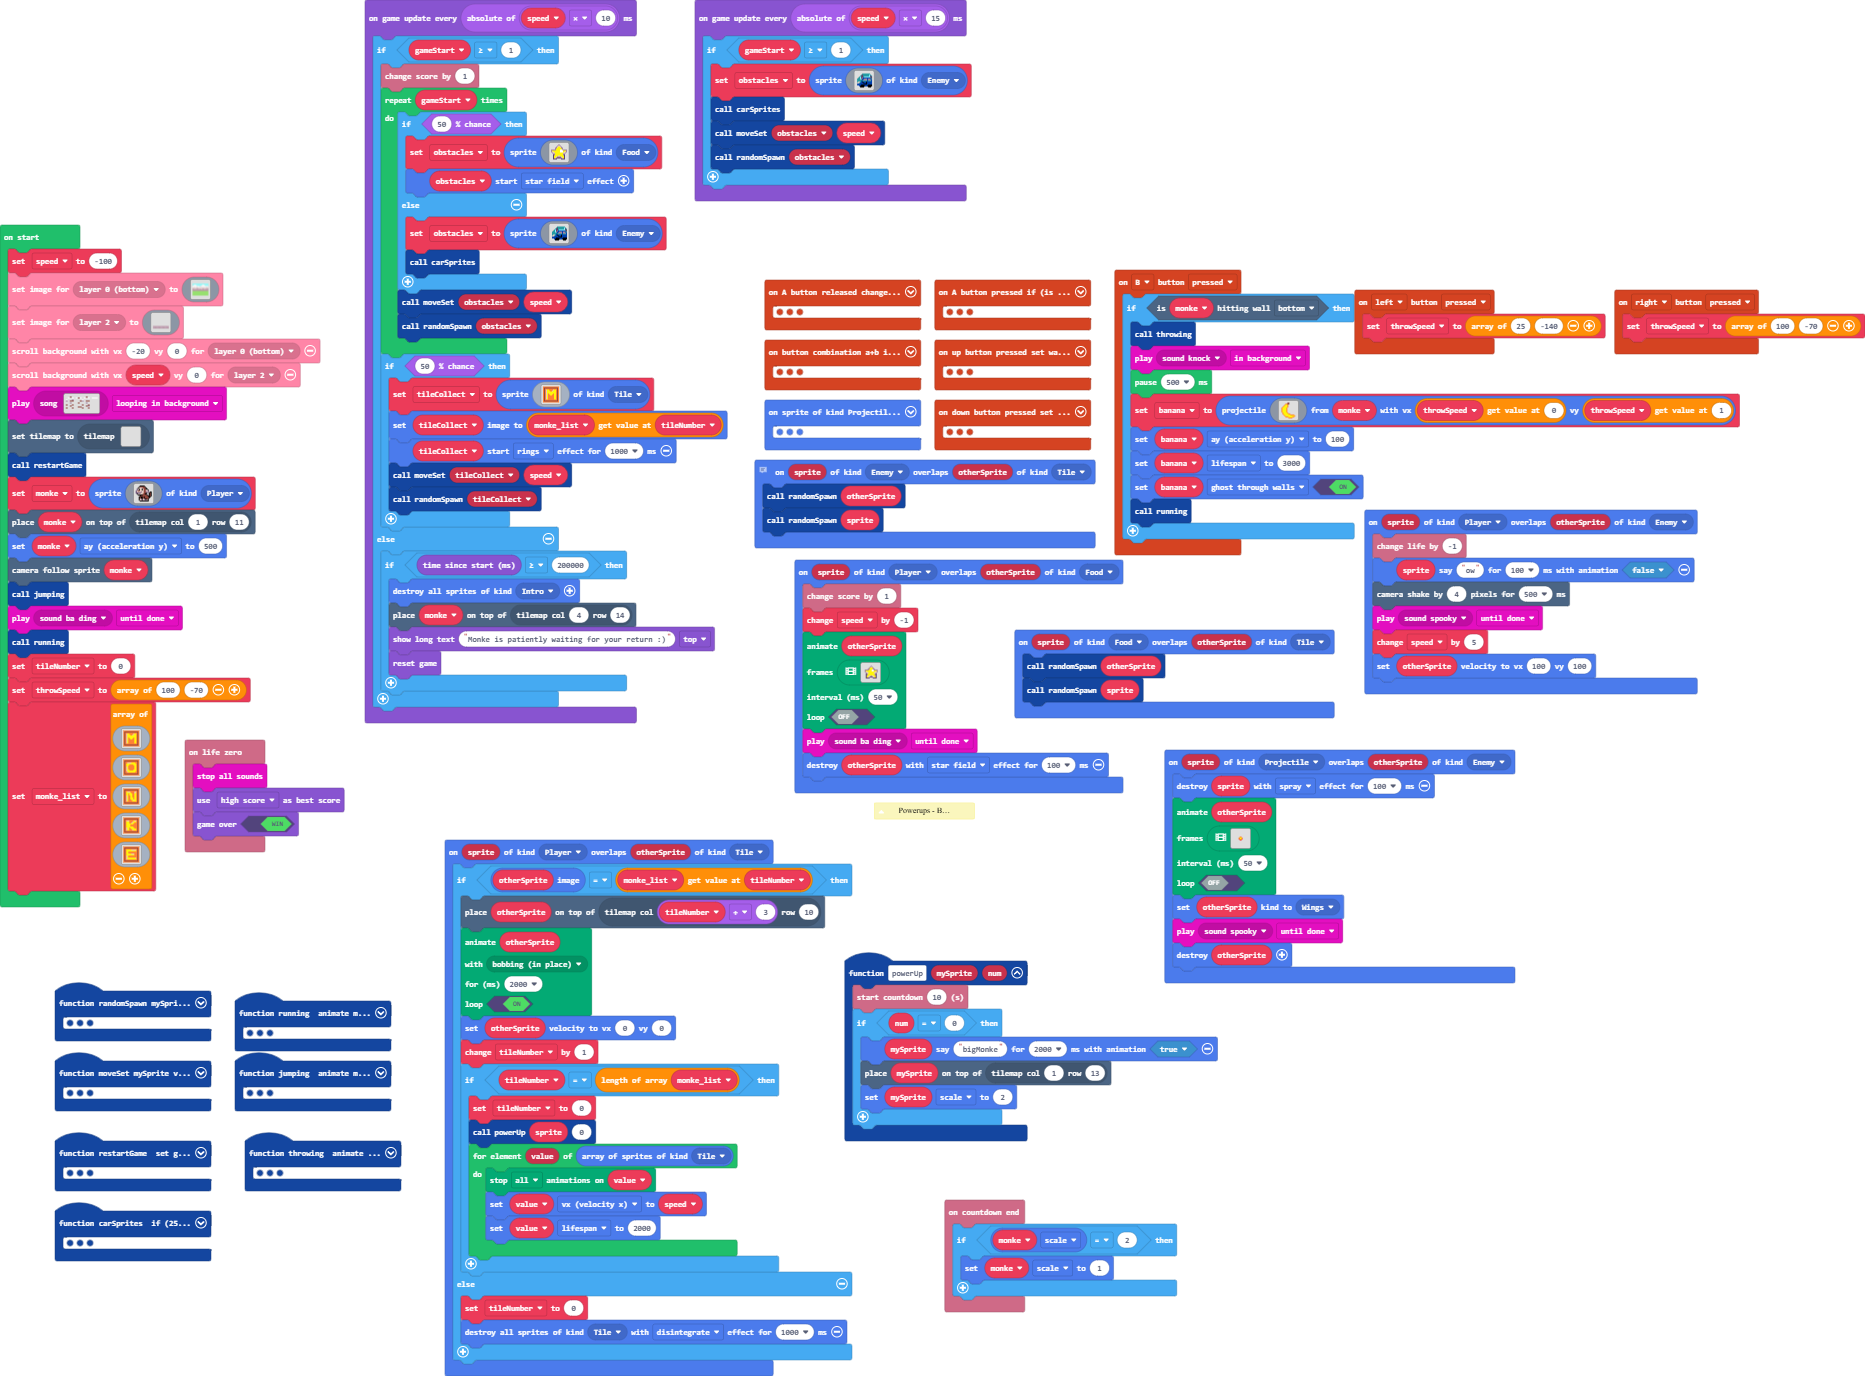
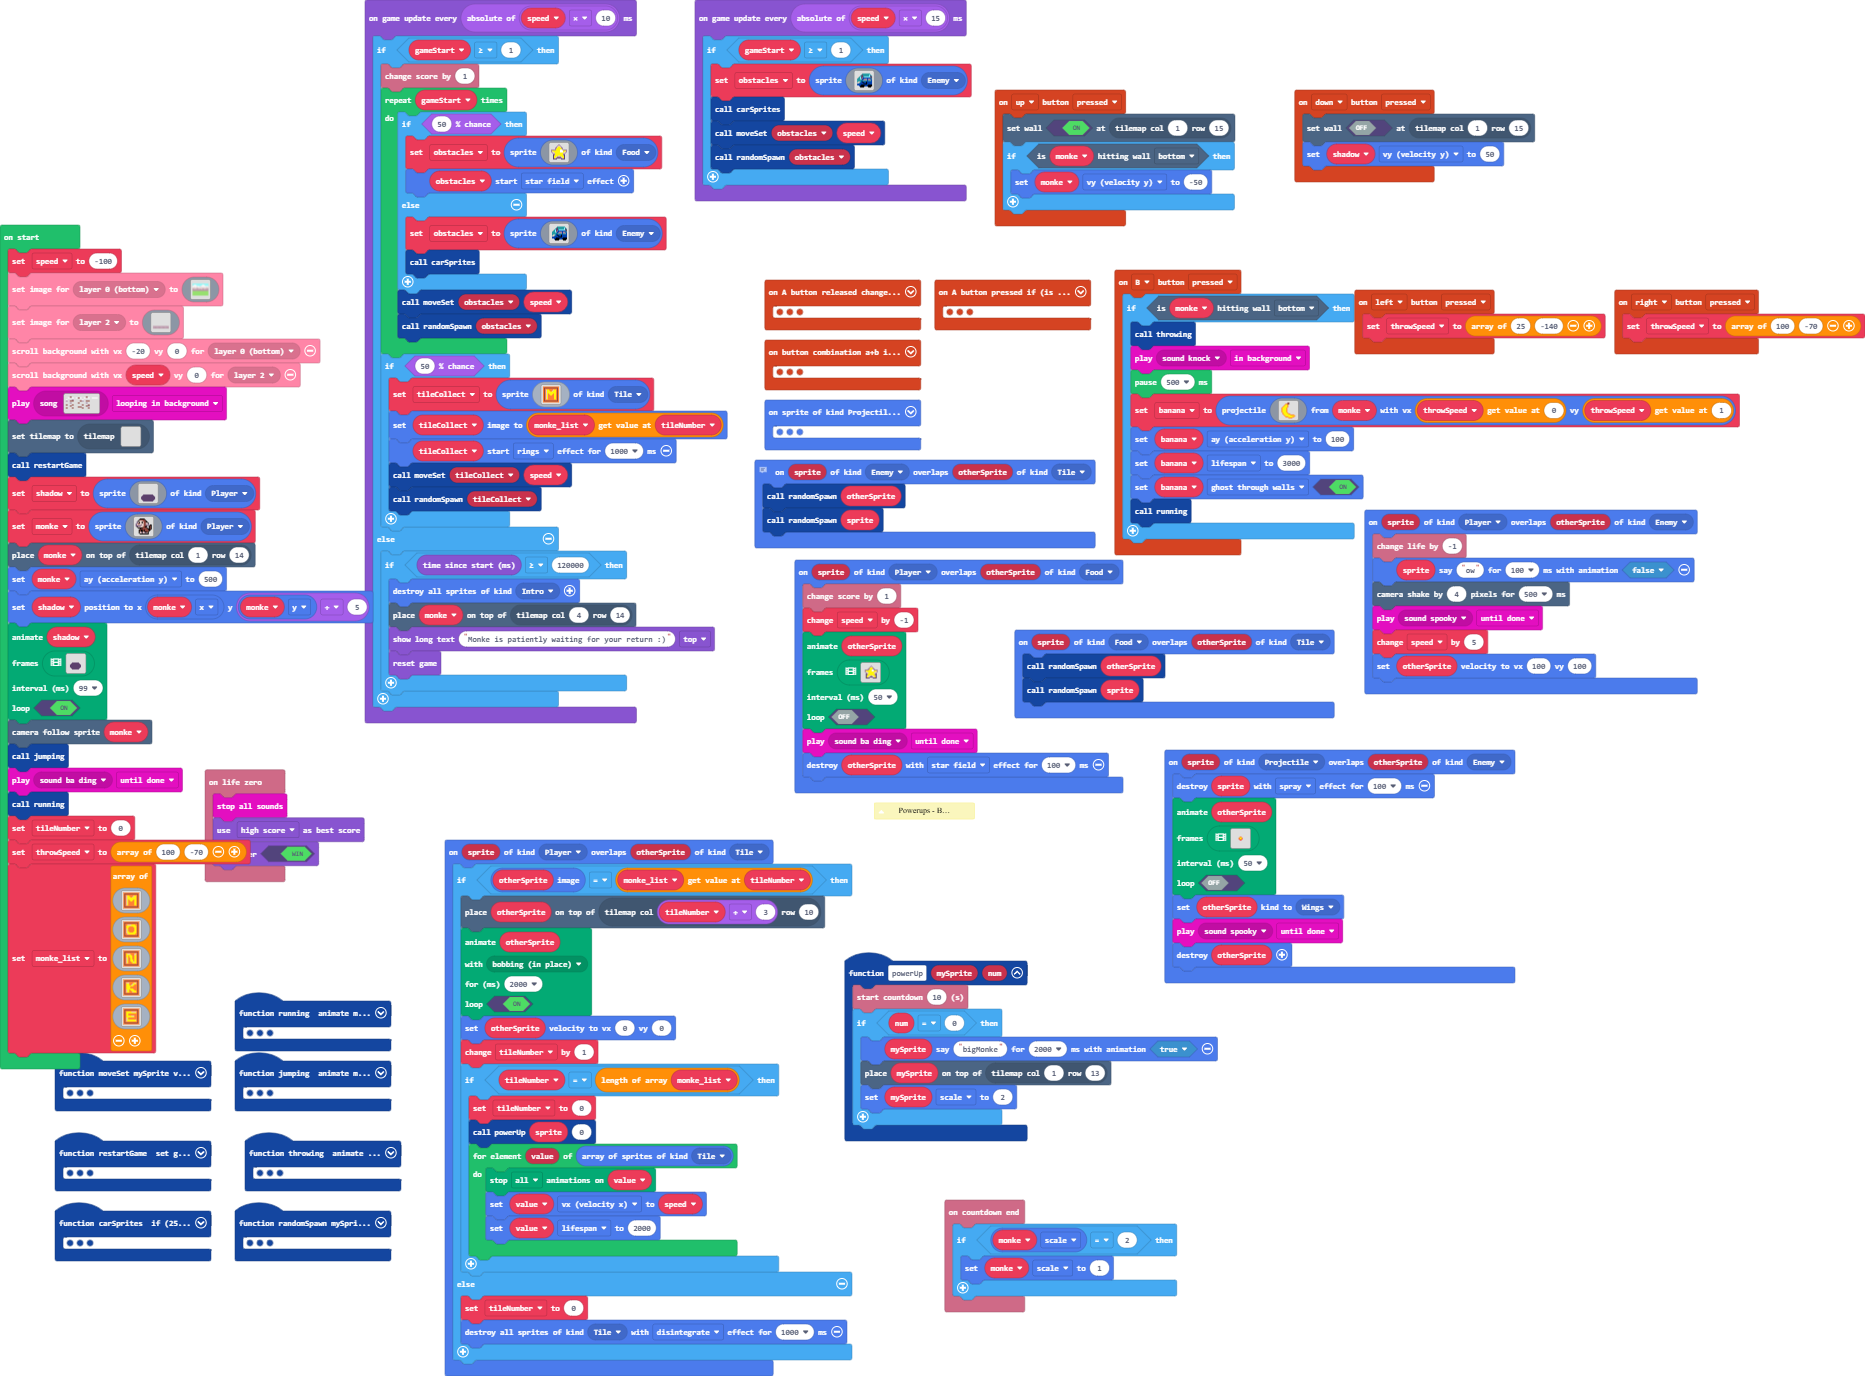
attempting shadow

diff --git a/main.ts b/main.ts
@@ -2,6 +2,7 @@ namespace SpriteKind {
     export const Intro = SpriteKind.create()
     export const Wings = SpriteKind.create()
     export const Tile = SpriteKind.create()
+    export const Shadow = SpriteKind.create()
 }
 function jumping () {
     animation.runImageAnimation(
@@ -181,6 +182,12 @@ function jumping () {
     false
     )
 }
+controller.up.onEvent(ControllerButtonEvent.Pressed, function () {
+    tiles.setWallAt(tiles.getTileLocation(1, 15), true)
+    if (monke.isHittingTile(CollisionDirection.Bottom)) {
+        monke.vy = -50
+    }
+})
 // ensures that enemies and tiles don't show up on the same space.
 sprites.onOverlap(SpriteKind.Enemy, SpriteKind.Tile, function (sprite, otherSprite) {
     randomSpawn(otherSprite)
@@ -719,9 +726,6 @@ function restartGame () {
     )
     titleScreen.setFlag(SpriteFlag.GhostThroughWalls, true)
 }
-controller.down.onEvent(ControllerButtonEvent.Pressed, function () {
-    tiles.setWallAt(tiles.getTileLocation(1, 15), false)
-})
 function powerUp (mySprite: Sprite, num: number) {
     info.startCountdown(10)
     if (num == 0) {
@@ -738,6 +742,10 @@ controller.A.onEvent(ControllerButtonEvent.Pressed, function () {
         pause(700)
         running()
     }
+})
+controller.down.onEvent(ControllerButtonEvent.Pressed, function () {
+    tiles.setWallAt(tiles.getTileLocation(1, 15), false)
+    shadow.vy = 50
 })
 info.onLifeZero(function () {
     music.stopAllSounds()
@@ -850,6 +858,8 @@ function running () {
  * - Peeling the love: bananas turn things into life hearts
  * 
  * - Jungle Beats
+ * 
+ * adds: shadow, invulnerable
  */
 sprites.onOverlap(SpriteKind.Player, SpriteKind.Food, function (sprite, otherSprite) {
     info.changeScoreBy(1)
@@ -1002,12 +1012,6 @@ function randomSpawn (mySprite: Sprite) {
         tiles.placeOnTile(wings, tiles.getTileLocation(15, 13))
     }
 }
-controller.up.onEvent(ControllerButtonEvent.Pressed, function () {
-    tiles.setWallAt(tiles.getTileLocation(1, 15), true)
-    if (monke.isHittingTile(CollisionDirection.Bottom)) {
-        monke.vy = -50
-    }
-})
 sprites.onOverlap(SpriteKind.Projectile, SpriteKind.Enemy, function (sprite, otherSprite) {
     sprites.destroy(sprite, effects.spray, 100)
     animation.runImageAnimation(
@@ -1106,6 +1110,7 @@ let monke_list: Image[] = []
 let throwSpeed: number[] = []
 let tileNumber = 0
 let monke: Sprite = null
+let shadow: Sprite = null
 let speed = 0
 speed = -100
 scroller.setLayerImage(scroller.BackgroundLayer.Layer0, img`
@@ -1357,6 +1362,24 @@ scroller.scrollBackgroundWithSpeed(speed, 0, scroller.BackgroundLayer.Layer2)
 music.play(music.createSong(assets.song`Intro`), music.PlaybackMode.LoopingInBackground)
 tiles.setCurrentTilemap(tilemap`blank`)
 restartGame()
+shadow = sprites.create(img`
+    . . . . . . . . . . . . . . . . 
+    . . . . . . . . . . . . . . . . 
+    . . . . . . . . . . . . . . . . 
+    . . . . . . . . . . . . . . . . 
+    . . . . . . . . . . . . . . . . 
+    . . . . . . . . . . . . . . . . 
+    . . . . . . . . . . . . . . . . 
+    . . . . . . . . . . . . . . . . 
+    . . . . . . . . . . . . . . . . 
+    . . . c c c c c c c c c c . . . 
+    . . c c c c c c c c c c c c . . 
+    . c c c c c c c c c c c c c c . 
+    . c c c c c c c c c c c c c c . 
+    . c c c c c c c c c c c c c c . 
+    . . c c c c c c c c c c c c . . 
+    . . . c c c c c c c c c c . . . 
+    `, SpriteKind.Player)
 monke = sprites.create(img`
     . . . . f f f f f . . . . . . . 
     . . . f e e e e e f . . . . . . 
@@ -1375,8 +1398,100 @@ monke = sprites.create(img`
     . . . f d d c d d b b d f . . . 
     . . . . f f f f f f f f f . . . 
     `, SpriteKind.Player)
-tiles.placeOnTile(monke, tiles.getTileLocation(1, 11))
+tiles.placeOnTile(monke, tiles.getTileLocation(1, 14))
 monke.ay = 500
+shadow.setPosition(monke.x, monke.y + 5)
+animation.runImageAnimation(
+shadow,
+[img`
+    . . . . . . . . . . . . . . . . 
+    . . . . . . . . . . . . . . . . 
+    . . . . . . . . . . . . . . . . 
+    . . . . . . . . . . . . . . . . 
+    . . . . . . . . . . . . . . . . 
+    . . . . . . . . . . . . . . . . 
+    . . . . . . . . . . . . . . . . 
+    . . . . c c c c c c c . . . . . 
+    . . . c c c c c c c c c . . . . 
+    . . c c c c c c c c c c c . . . 
+    . . c c c c c c c c c c c . . . 
+    . . c c c c c c c c c c c . . . 
+    . . . c c c c c c c c c . . . . 
+    . . . . c c c c c c c . . . . . 
+    . . . . . . . . . . . . . . . . 
+    . . . . . . . . . . . . . . . . 
+    `,img`
+    . . . . . . . . . . . . . . . . 
+    . . . . . . . . . . . . . . . . 
+    . . . . . . . . . . . . . . . . 
+    . . . . . . . . . . . . . . . . 
+    . . . . . . . . . . . . . . . . 
+    . . . . . . . . . . . . . . . . 
+    . . . . . . . . . . . . . . . . 
+    . . . c c c c c c c . . . . . . 
+    . . c c c c c c c c c . . . . . 
+    . c c c c c c c c c c c . . . . 
+    . c c c c c c c c c c c . . . . 
+    . c c c c c c c c c c c . . . . 
+    . . c c c c c c c c c . . . . . 
+    . . . c c c c c c c . . . . . . 
+    . . . . . . . . . . . . . . . . 
+    . . . . . . . . . . . . . . . . 
+    `,img`
+    . . . . . . . . . . . . . . . . 
+    . . . . . . . . . . . . . . . . 
+    . . . . . . . . . . . . . . . . 
+    . . . . . . . . . . . . . . . . 
+    . . . . . . . . . . . . . . . . 
+    . . . . . . . . . . . . . . . . 
+    . . . . . . . . . . . . . . . . 
+    . . . c c c c c c c c c . . . . 
+    . . c c c c c c c c c c c . . . 
+    . c c c c c c c c c c c c c . . 
+    . c c c c c c c c c c c c c . . 
+    . c c c c c c c c c c c c c . . 
+    . . c c c c c c c c c c c . . . 
+    . . . c c c c c c c c c . . . . 
+    . . . . . . . . . . . . . . . . 
+    . . . . . . . . . . . . . . . . 
+    `,img`
+    . . . . . . . . . . . . . . . . 
+    . . . . . . . . . . . . . . . . 
+    . . . . . . . . . . . . . . . . 
+    . . . . . . . . . . . . . . . . 
+    . . . . . . . . . . . . . . . . 
+    . . . . . . . . . . . . . . . . 
+    . . . . . . . . . . . . . . . . 
+    . . . . . . . c c c c c . . . . 
+    . . . . . . c c c c c c c . . . 
+    . . . . . c c c c c c c c c . . 
+    . . . . . c c c c c c c c c . . 
+    . . . . . c c c c c c c c c . . 
+    . . . . . . c c c c c c c . . . 
+    . . . . . . . c c c c c . . . . 
+    . . . . . . . . . . . . . . . . 
+    . . . . . . . . . . . . . . . . 
+    `,img`
+    . . . . . . . . . . . . . . . . 
+    . . . . . . . . . . . . . . . . 
+    . . . . . . . . . . . . . . . . 
+    . . . . . . . . . . . . . . . . 
+    . . . . . . . . . . . . . . . . 
+    . . . . . . . . . . . . . . . . 
+    . . . . . . . . . . . . . . . . 
+    . . . . c c c c c c c . . . . . 
+    . . . c c c c c c c c c . . . . 
+    . . c c c c c c c c c c c . . . 
+    . . c c c c c c c c c c c . . . 
+    . . c c c c c c c c c c c . . . 
+    . . . c c c c c c c c c . . . . 
+    . . . . c c c c c c c . . . . . 
+    . . . . . . . . . . . . . . . . 
+    . . . . . . . . . . . . . . . . 
+    `],
+99,
+true
+)
 scene.cameraFollowSprite(monke)
 jumping()
 music.play(music.melodyPlayable(music.baDing), music.PlaybackMode.UntilDone)
@@ -1548,7 +1663,7 @@ game.onUpdateInterval(Math.abs(speed * 10), function () {
             randomSpawn(tileCollect)
         }
     } else {
-        if (game.runtime() >= 200000) {
+        if (game.runtime() >= 120000) {
             sprites.destroyAllSpritesOfKind(SpriteKind.Intro)
             tiles.placeOnTile(monke, tiles.getTileLocation(4, 14))
             game.showLongText("Monke is patiently waiting for your return :)", DialogLayout.Top)
